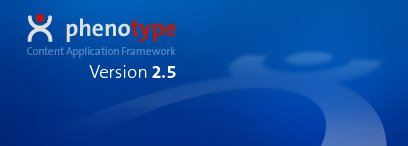
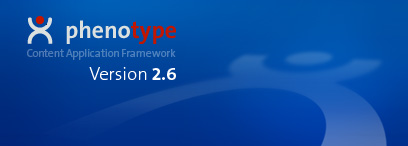
- multilanguage smartURLs are resolved correctly by the front controller - PT_DEMO is working after activating multilanguage for the structure pagegroup - multilanguage urls are working if smartURL is deactivated - 2.6 images for login / error / backend header
git-svn-id: https://phenotype.svn.sourceforge.net/svnroot/phenotype/trunk@275 3661cc67-7a12-0410-bb00-87ca1905b2a9

Changed region(s): [[0.0588, 0.0822, 0.4412, 0.3014], [0.0588, 0.3288, 0.4412, 0.411], [0.2059, 0.4384, 0.4412, 0.5479]]

diff --git a/_phenotype/system/class/PhenotypeRequest.class.php b/_phenotype/system/class/PhenotypeRequest.class.php
@@ -50,31 +50,42 @@ class PhenotypeRequestStandard
       {
         $smartURL = $this->get("smartURL");
 
-          // / am Anfang wegfiltern
+        // / am Anfang wegfiltern
         $patterns = "/^[\/]*/";
         $smartURL = preg_replace($patterns,"", $smartURL);
         // / am Ende wegfiltern
         $patterns = "/[\/]\$/";
         $smartURL = preg_replace($patterns,"", $smartURL);
 
-        $sql = "SELECT pag_id FROM page WHERE pag_url='". mysql_escape_string($smartURL)."'";
+        $sql = "SELECT pag_id, pag_url1, pag_url2, pag_url3, pag_url4 FROM page WHERE pag_url='". mysql_escape_string($smartURL)."' OR pag_url1='". mysql_escape_string($smartURL)."' OR pag_url2='". mysql_escape_string($smartURL)."' OR pag_url3='". mysql_escape_string($smartURL)."' OR pag_url4='". mysql_escape_string($smartURL)."'";
         $rs = $myDB->query($sql,"Request");
-
         if (mysql_num_rows($rs)==1)
         {
-          $row =mysql_fetch_array($rs);
+          $row = mysql_fetch_array($rs);
+          $lng_id=1;
+          for ($i=1;$i<=4;$i++)
+          {
+            if ($row["pag_url".$i]==$smartURL)
+            {
+              $lng_id=$i;
+              break;
+            }
+          }
           $this->set("id",$row["pag_id"]);
+          $this->set("lng_id",$lng_id);
         }
         else
         {
           // check for param rewrite
-          $sql = "SELECT pag_id, LENGTH(pag_url) AS l FROM page WHERE pag_url !='' AND INSTR('".mysql_escape_string($smartURL)."',CONCAT(pag_url,'/')) ORDER BY l LIMIT 0,1";
+
+          $sql = "SELECT pag_id, LENGTH(pag_url) AS L FROM page WHERE pag_url !='' AND INSTR('".mysql_escape_string($smartURL)."',CONCAT(pag_url,'/'))=1  ORDER BY L LIMIT 0,1";
+
           $rs = $myDB->query($sql);
           if (mysql_num_rows($rs)==1)
           {
             $row =mysql_fetch_array($rs);
             $this->set("id",$row["pag_id"]);
-            $params = substr($smartURL,$row["l"]+1);
+            $params = substr($smartURL,$row["L"]+1);
             //echo $params;
             $_params = split('/',$params);
             $i=0;
@@ -101,7 +112,7 @@ class PhenotypeRequestStandard
               }
             }
           }
-          else 
+          else
           {
             // no unique hit
             $myApp->throw404();
@@ -236,13 +247,13 @@ class PhenotypeRequestStandard
     print_r ($this->_REQUEST);
     echo "</pre></br>";
   }
-  
+
   public function getParamsArray()
   {
     return ($this->_REQUEST);
   }
 
-	/**
+  /**
 	 * creates the parameter hash used for the include cache
 	 *
 	 * @return String	containing all relevant keys and values of the request

diff --git a/_phenotype/system/class/Phenotype.class.php b/_phenotype/system/class/Phenotype.class.php
@@ -1053,7 +1053,7 @@ class PhenotypeStandard extends PhenotypeBase
       $myApp->throw500($myPage->id);
       exit();
     }
-    
+
 
     if ($sql!="")
     {
@@ -1645,7 +1645,7 @@ border: 1px solid #cfcfcf;
 </div>
 </body>
 </html><?php
-	
+
   }
 
   // =========================================================================================================
@@ -1669,6 +1669,15 @@ border: 1px solid #cfcfcf;
    */
   public function url_for_page($pag_id,$_params=array(),$lng_id=null,$smartUID)
   {
+    // if no language id is ommited, take context into account
+
+    if ($lng_id==null)
+    {
+      global $myPage;
+      $lng_id = $myPage->lng_id;
+    }
+
+
     if ($this->URLHelper==false)
     {
       $myDAO = new PhenotypeSystemDataObject("UrlHelper",array("type"=>"pages"),false,true);
@@ -1686,9 +1695,25 @@ border: 1px solid #cfcfcf;
     }
     else
     {
-      $myPage = new PhenotypePage($pag_id);
-      $url = $myPage->buildURL($lng_id);
+      $myTempPage = new PhenotypePage($pag_id);
+      $url = $myTempPage->buildURL($lng_id);
       $myDAO->set($token,$url);
+    }
+
+
+    // Fallback, if smartURL is disabled
+    if (PT_URL_STYLE!="smartURL")
+    {
+      $url = SERVERURL . "index.php?smartURL=".$url;
+      foreach ($_params AS $k=>$v)
+      {
+        $url .= "&".$k."=".$v;
+      }
+      if ($smartUID!="")
+      {
+        $url .="&smartUID=".$smartUID;
+      }
+      return $url;
     }
 
     foreach ($_params AS $k=>$v)

diff --git a/_phenotype/system/class/PhenotypePage.class.php b/_phenotype/system/class/PhenotypePage.class.php
@@ -2400,22 +2400,13 @@ class PhenotypePageStandard extends PhenotypeBase
         }
       }
 
-      // Fallback
-      if (PT_URL_STYLE!="smartURL")
-      {
-        $url = "index.php?smartURL=".$url;
-        if ($multilanguage)
-        {
-          $url .= "&lng_id=".$lng_id;
-        }
-        $url =  $url;
-        return $url;
-      }
-
       if ($multilanguage==1)
       {
         $url = $PTC_LANGUAGES[$lng_id]."/".$url;
       }
+     
+
+
     }
     return $url;
   }
@@ -2434,7 +2425,7 @@ class PhenotypePageStandard extends PhenotypeBase
     {
       if ($this->multilanguage)
       {
-        $url = $this-buildURL($k);
+        $url = $this->buildURL($k);
       }
       $mySQL->addField("pag_url".$k,$url);
     }

diff --git a/_phenotype/system/class/PhenotypeLayout.class.php b/_phenotype/system/class/PhenotypeLayout.class.php
@@ -2536,7 +2536,7 @@ $this->displayTreeNavi($myNav,$_REQUEST["folder"]);
 			$nav_id_roles    = $myNav->addNode("Rollen","admin_roles.php",0,"Rollen");
 			$nav_id_cache    = $myNav->addNode("Cache","admin_cache.php",0,"Cache");
 			$nav_id_layout    = $myNav->addNode("Layout","layout.php",0,"Layout");
-			$nav_id_pages    = $myNav->addNode("Seiten","admin_pages.php",0,"Seiten");
+			//$nav_id_pages    = $myNav->addNode("Seiten","admin_pages.php",0,"Seiten");
 			$nav_id_groups   = $myNav->addNode("Seitengruppen","admin_groups.php",0,"Seitengruppen");
 			$nav_id_content  = $myNav->addNode("Content","admin_content.php",0,"Content");
 			$nav_id_media    = $myNav->addNode("Media","admin_media.php",0,"Media");

diff --git a/htdocs/_phenotype/admin/admin_group_update.php b/htdocs/_phenotype/admin/admin_group_update.php
@@ -74,7 +74,7 @@ else
 $sql = $mySQL->update("pagegroup","grp_id =" . $id);
 $myDB->query($sql);
 
-if ($row["grp_smarturl_schema"]!=$myRequest->getI("grp_smarturl_schema"))
+if ($row["grp_smarturl_schema"]!=$myRequest->getI("grp_smarturl_schema") OR $row["grp_multilanguage"] !=$myRequest->getI("grp_multilanguage"))
 {
   // change of smarturl schema! a rebuild is necessary
   $sql = "SELECT pag_id FROM page WHERE grp_id=".$id;
